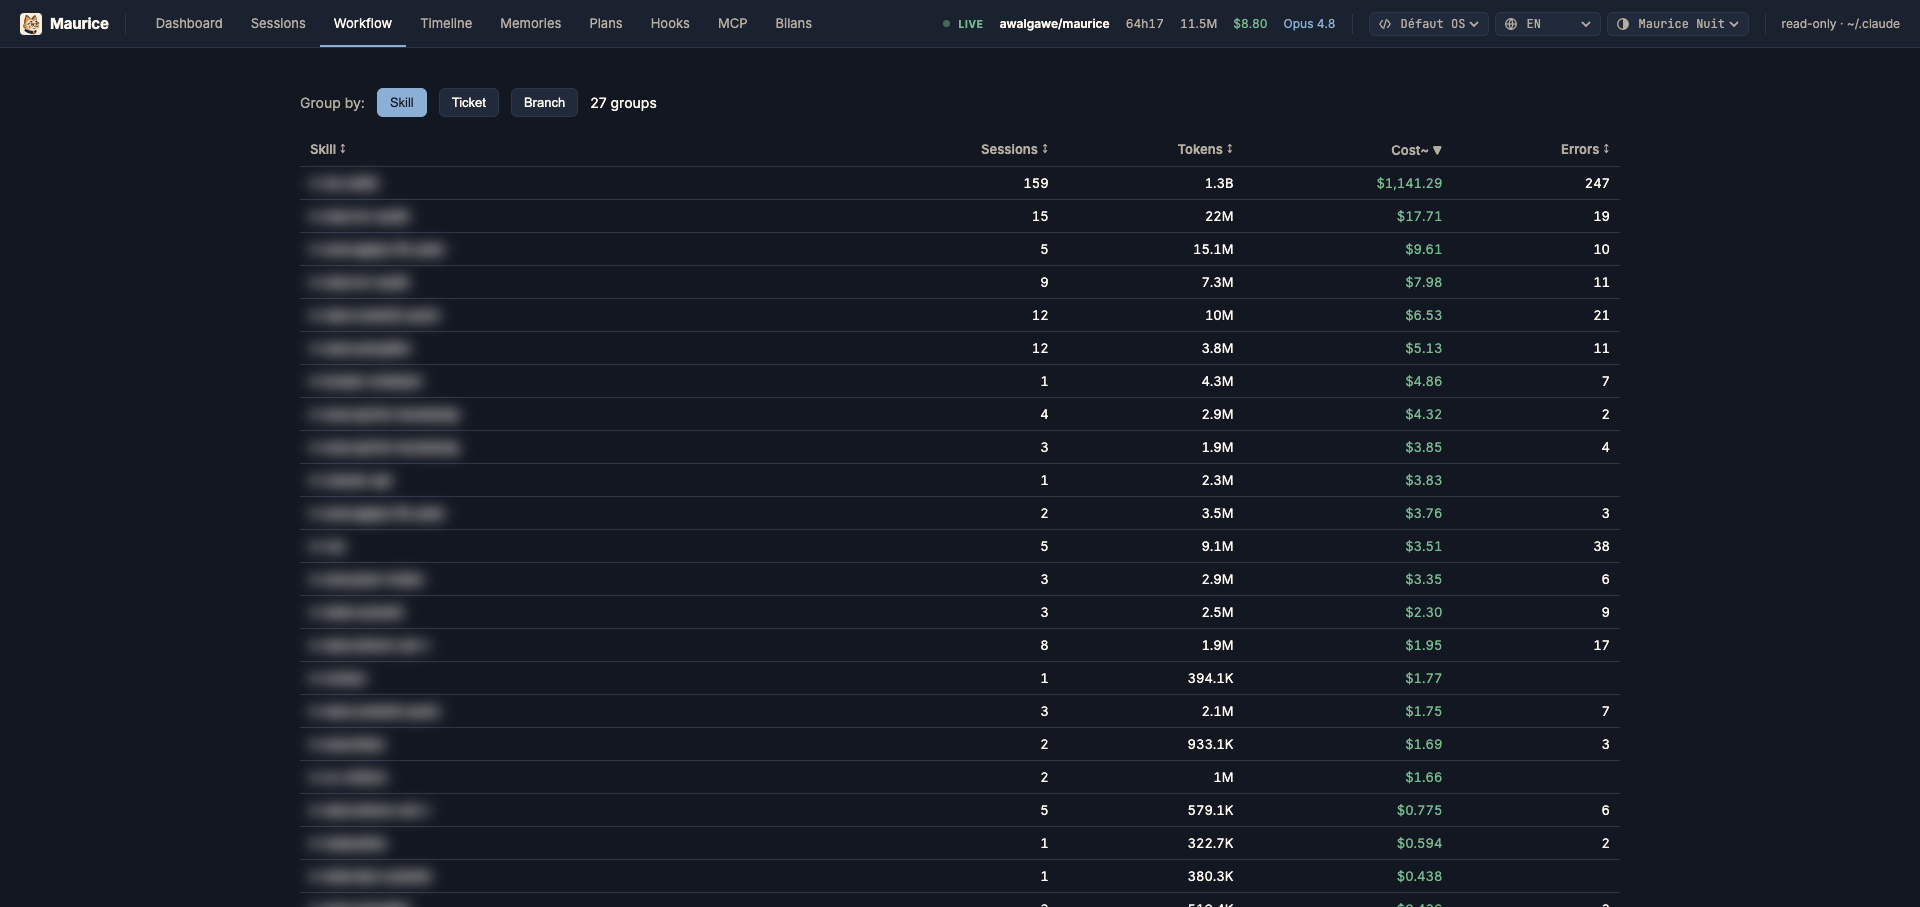
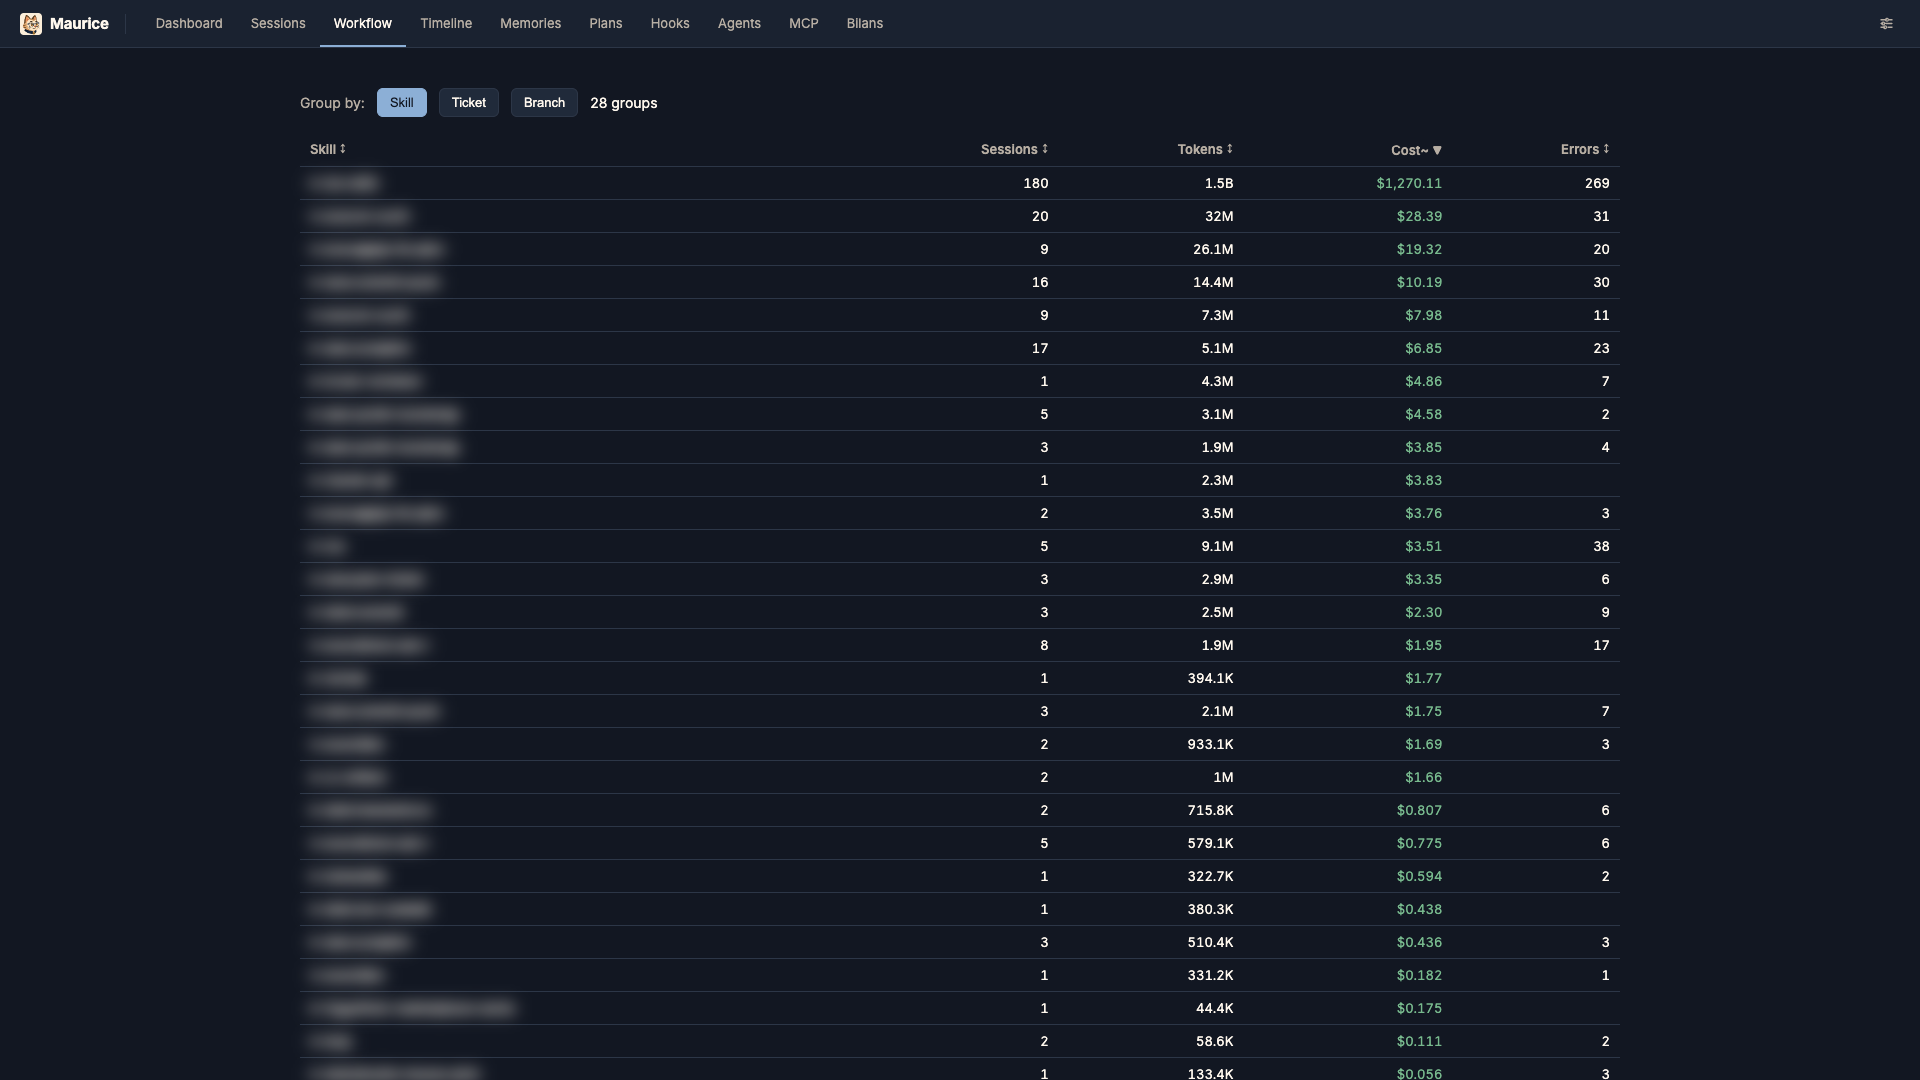
docs(release): refresh screenshots and add Agents page for 0.3.0

diff --git a/.claude/agents/screenshot-curator.md b/.claude/agents/screenshot-curator.md
@@ -41,20 +41,26 @@ Re-verify selectors each time — they can drift as the UI changes.
 
 | Page | Blur | Keep sharp |
 |---|---|---|
-| Dashboard | `.dash-bar-label` (project/skill names), `.dash-toplist-name` (expensive sessions), `.dash-mcp-list` (MCP tool chips) | KPIs, charts, amounts |
-| Sessions | Project/prompt, Ticket, Branch, Skills columns | Model, Date, Msgs, Tokens, Cost, Waste~, Ctx, Err, Sub |
-| Session detail | `.detail-thread .body` (message bodies), the `<h2>` header (leaks full filesystem path incl. username) | Role headers, right-rail panels (Cost & tokens incl. cost breakdown donut, Context window curve) |
-| Workflow | First column (skill/ticket/branch group labels) | Aggregates (cost/tokens/errors), Group-by selector |
+| Dashboard | `.dash-bar-label` (project/skill names), `.dash-toplist-name` (expensive sessions), `.dash-mcp-list` (MCP tool chips), `.dash-err-excerpt` (latest-errors message text — can contain full filesystem paths incl. username) | KPIs, charts, amounts, `.dash-err-tool`/`.dash-err-ago` (tool name, time) |
+| Sessions | Project/prompt, Ticket, Branch, Skills columns (`tbody tr:not(.day-row) td:nth-child(1..4)`, no dedicated classes on these cells) | Model, Date, Msgs, Tokens, Cost, Waste~, Ctx, Err, Sub |
+| Session detail | `.detail-thread .body` (message bodies), the `<h2>` header (leaks full filesystem path incl. username), `.detail-header div.muted` (branch chips row under the header), `.subagent-item .muted` (subagent task description) | Role headers, right-rail panels (Cost & tokens incl. cost breakdown donut and "With subagents"/"Sub-agents" cost row, Context window curve incl. dashed model-switch markers), `.subagent-item-title` (agent type name), MCP tools list |
+| Workflow | First column (skill/ticket/branch group labels, `table tbody tr td:nth-child(1)`, no dedicated class) | Aggregates (cost/tokens/errors), Group-by selector |
 | Timeline | `.tl-lane-name` (ticket/branch/project lane labels) | Count·cost line, bars by model, legend, axis |
+| Agents | `td > div.muted[style*="font-size: 11"] > span:first-child` (source + project-scope label) and `> code` (on-disk file path, leaks username/project/ticket) per definition line; any definition **description** (`td > div.muted[style*="font-size: 12"]`) that names the employer/company domain (find via JS text-content scan, e.g. `/webedia/i`, and blur that specific element directly — not a blanket rule) | Agent name, origin badge (builtin/custom/plugin/unknown), "Never used"/"No definition found" chips, Runs/Sessions/Cost/Last used columns, most definition descriptions (generic tool documentation, not confidential) |
 
 The MCP docs page is the public API surface — nothing to blur there (it was dropped from the README gallery in the 0.2.0 refresh since the live tool list already documents it better than a screenshot).
+
+All pages: the topbar's live-session indicator (`.live-project`) opportunistically shows the current project name when a session has been active in the last few minutes — it's time-dependent (present on one capture, absent moments later on the same page). Always add `.live-project { filter: blur(8px) !important; }` defensively, whether or not it's visible when you inspect the DOM.
 
 ## Gotchas learned the hard way
 
 - A reload to apply the theme wipes any CSS already injected — re-inject blur *after* the theme is set, not before.
 - Structural selectors (`nth-child`) don't transfer between pages with different table shapes; re-derive selectors per page.
 - Blur radius needs to survive full-resolution viewing — 7-8px, not the CSS default.
-- Full-page capture for content-heavy pages (Dashboard) vs. viewport-only for tall tables (Sessions, 175+ rows) — pick whichever keeps the PNG a reasonable size and the crop meaningful for a README.
+- Full-page capture for content-heavy pages (Dashboard, Agents) vs. viewport-only for tall tables (Sessions, 175+ rows) or long threads (Session detail, 200+ messages) — pick whichever keeps the PNG a reasonable size and the crop meaningful for a README. For Session detail specifically, scroll position 0 (top of thread) already fits the donut chart, full cost breakdown (incl. subagents cost row) and the full context-window curve in one 1080px viewport — no need to scroll further or go full-page.
+- When two sibling elements share the same class (e.g. Agents' two `.muted` divs — the definition description and the source/path line) and there's no other hook, disambiguate with an attribute selector on the inline style React emits (`[style*="font-size: 12"]` vs `[style*="font-size: 11"]`) rather than structural position, which is fragile across rows with a different number of definitions.
+- Some confidential strings only show up inside free-text (an agent/skill description naming the employer's domain, a tool-error excerpt with a full path) rather than in a clean column. CSS alone can't pattern-match text content — use `evaluate_script` to scan `textContent` for the telltale string (company domain, `wmp-\d+`, `/Users/<name>/`) and blur only the specific matching element directly (`el.style.filter = 'blur(8px)'`), instead of blanket-blurring every sibling of that shape and losing the page's demo value.
+- Session detail's topbar can show the live-session indicator (see `.live-project` note above) mid-capture even when it wasn't there moments earlier on the same URL — it's a polling artifact, not a page-specific thing. Don't assume a page is clean just because an earlier capture of it didn't show the indicator.
 
 ## Maintaining this file
 

diff --git a/README.md b/README.md
@@ -28,6 +28,10 @@ Complements `ccusage` (CLI costs) and `awa:skill-stats`: here you **explore and 
 | --- | --- |
 | **Workflow** — cost pivoted by skill / ticket / branch.<br>![Workflow](docs/screenshots/workflow.png) | **Timeline** — sessions as time-positioned bars, colored by model.<br>![Timeline](docs/screenshots/timeline.png) |
 
+**Agents** — registry of every subagent type seen in your history, joined with its on-disk definition (builtin / custom / plugin) and usage stats.
+
+![Agents](docs/screenshots/agents.png)
+
 ## Getting started
 
 ```bash
